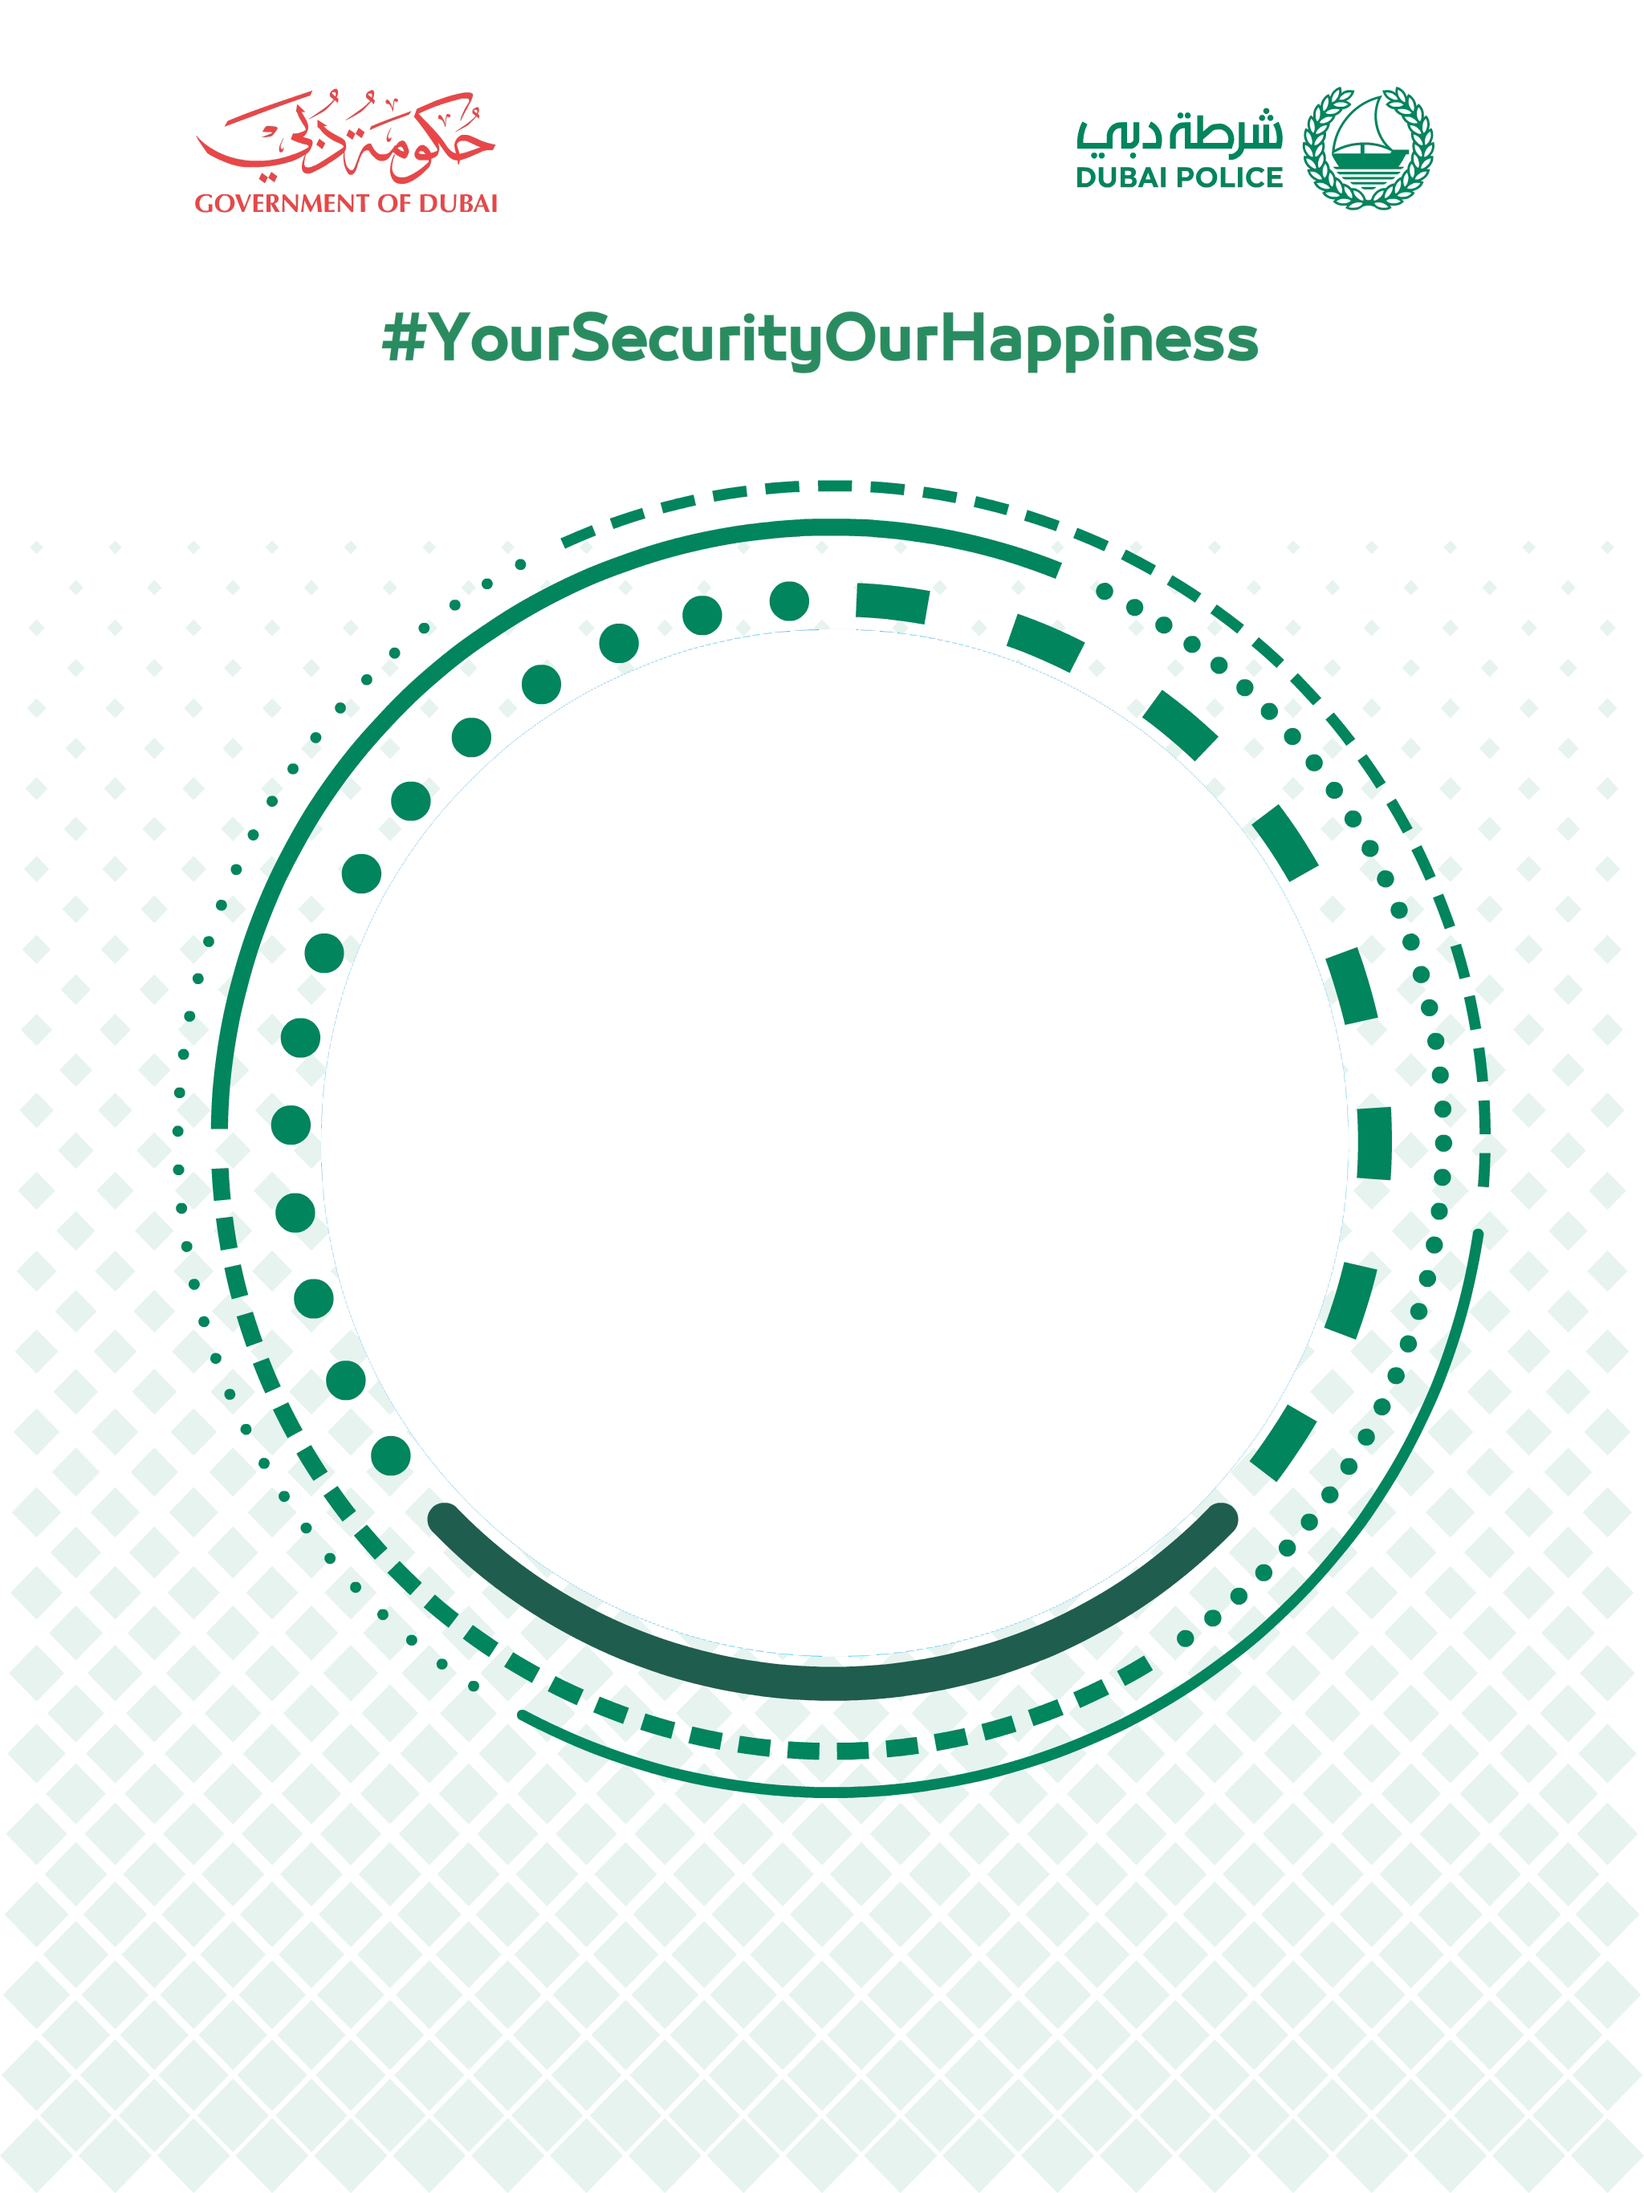
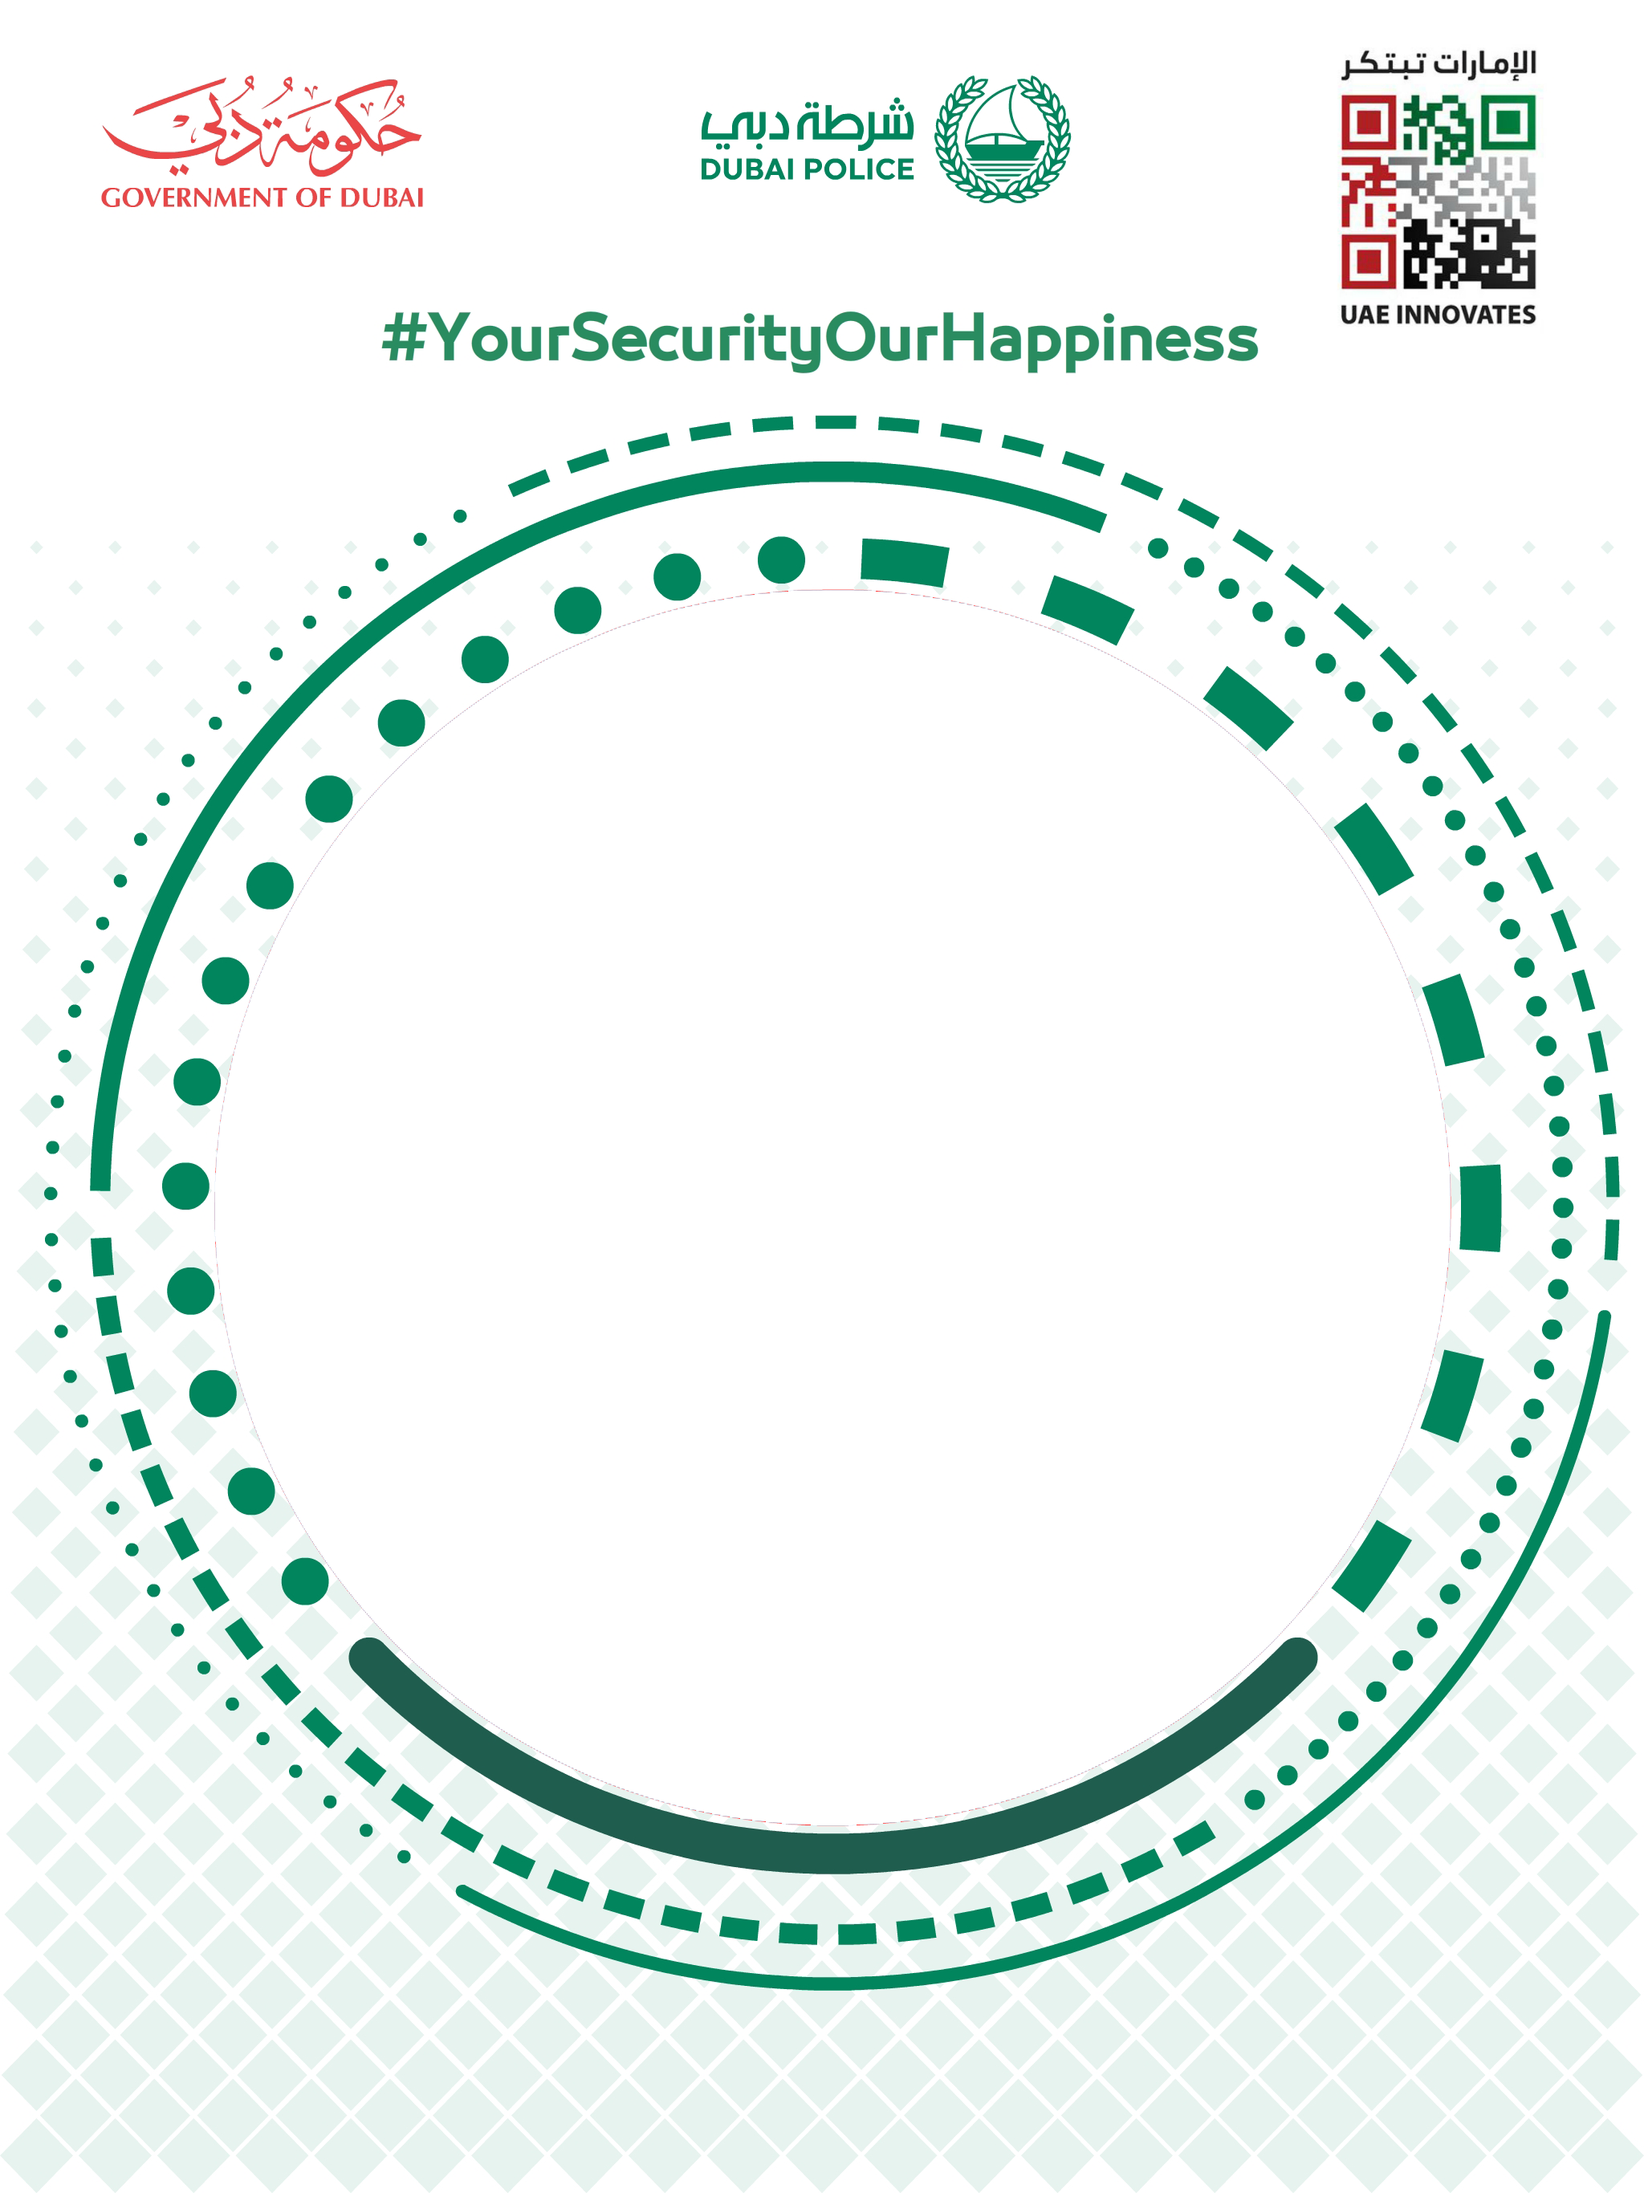
UI changes

Changed region(s): [[0.0312, 0.1867, 1.0, 0.9334], [0.4375, 0.0, 0.9375, 0.1556], [0.0625, 0.0311, 0.3125, 0.0933]]

diff --git a/src/pages/preview/preview.ts b/src/pages/preview/preview.ts
@@ -3,6 +3,7 @@ import {IonicPage, LoadingController, NavController, NavParams} from 'ionic-angu
 import {DatabaseProvider} from "../../providers/database/database";
 import {Http} from "@angular/http";
 import {ScreensaverPage} from "../screensaver/screensaver";
+import {HomePage} from "../home/home";
 
 /**
  * Generated class for the PreviewPage page.
@@ -23,6 +24,7 @@ export class PreviewPage {
   developer = {};
   users: any;
   data;
+  timer;
   baseImageString;
   postBody ={};
   date1;
@@ -38,6 +40,7 @@ export class PreviewPage {
     this.baseImageString = navParams.get('file_name_final');
     this.name = navParams.get('name');
     this.email = navParams.get('email');
+    this.timer = navParams.get('timer');
     // this.imagepath = this.file.dataDirectory + '/' + this.fileName;
     console.log("data-> " + navParams.get('imageBase'));
     // this
@@ -47,7 +50,7 @@ export class PreviewPage {
     console.log('ionViewDidLoad PreviewPage');
   }
 
-addDeveloper() {
+  addDeveloper() {
 
     console.log("Button Clicked addDeveloper()");
     //TODO Code for inserting in sqlite
@@ -63,25 +66,13 @@ addDeveloper() {
   }
 
   sendImagesToServer(){
-    // let loadingPopup = this.loadingCtrl.create({
-    //   content: "Fetching Location...",
-    //   spinner: 'circles'
-    // });
-    // loadingPopup.present();
+    let loading = this.loadingCtrl.create({
+      content: 'Sending email...',
+      spinner: 'circles'
+    });
+    loading.present();
     let body = new FormData();
     let date = new Date(new Date().toISOString());
-    // body.append('location', "jaipur");
-    // body.append('name',this.peopleDetail.name);
-    // body.append('mobile',this.peopleDetail.phone_number);
-    // body.append('email',this.peopleDetail.email);
-    // body.append('photo_base_64',this.baseImageString);
-    // body.append('clicked_on',new Date().toISOString());
-    // body.append('user_id',"nicks");
-    // body.append('password',"2702100000");
-    // console.log("Base64->> " + this.screen.substr(23));
-    // var compressed = LZString.compress(str);
-    // this.addDeveloper();
-    // let date = new Date(new Date().toISOString());
     body.append('location', "Dubai Police photo booth");
     body.append('name',this.name);
     body.append('mobile',"NA");
@@ -90,28 +81,31 @@ addDeveloper() {
     body.append('clicked_on',this.date1);
     body.append('user_id',"dubai_police");
     body.append('password',"DP#123");
-    let headers = new Headers();
-    let options = { headers: headers };
     this.http.post('http://rayqube.com/projects/dubai_police_photobooth/saveclick_rest/', body  ).subscribe(data => {
+      loading.dismiss();
       this.navCtrl.push(ScreensaverPage,{},{animate: true, animation: 'transition', duration: 300, direction: 'forward'});
-      console.log(data);
-      let data_to_use = data.json();
-      console.log(data_to_use);
+      // console.log(data);
+      // let data_to_use = data.json();
+      // console.log(data_to_use);
       // loadingPopup.dismiss();
     },error2 => {
+      loading.dismiss();
       // loadingPopup.dismiss();
       this.navCtrl.push(ScreensaverPage,{},{animate: true, animation: 'transition', duration: 300, direction: 'forward'});
-      console.log("error->" + error2);
+      // console.log("error->" + error2);
     });
   }
-  loadDeveloperData() {
-    this.databaseprovider.getAllDevelopers().then(data => {
-      this.developers = data;
-      console.log(data);
-    })
-  }
+  // loadDeveloperData() {
+  //   this.databaseprovider.getAllDevelopers().then(data => {
+  //     this.developers = data;
+  //     console.log(data);
+  //   })
+  // }
   submit(){
       this.addDeveloper();
+  }
+  reShoot(){
+    this.navCtrl.push(HomePage,{name:this.name,email:this.email,timer:this.timer});
   }
 
 }

diff --git a/src/pages/login/login.html b/src/pages/login/login.html
@@ -10,17 +10,20 @@
 
 
   <div class="background" >
-    <div style="height: 60px;">
-      <button style="background: transparent ; color:transparent;height: 160px;width: 150px"  (click)="options()" round>Light Round
-      </button>
-    </div>
+    <!--<div style="height: 60px;">-->
+      <!--<button style="background: transparent ; color:transparent;height: 160px;width: 150px"  (click)="options()" round>Light Round-->
+      <!--</button>-->
+    <!--</div>-->
     <ion-grid>
       <ion-row>
-        <ion-col style="    margin-left: 60px;text-align: left; padding-top: 40px;">
+        <ion-col style="margin-left: 60px;text-align: left; padding-top: 40px;">
           <img  src="assets/imgs/logo.png">
         </ion-col>
-        <ion-col style="margin-right: 60px; text-align: right; padding-top: 40px;">
+        <ion-col style="text-align: center; padding-top: 40px;">
           <img  src="assets/imgs/logo 02.png">
+        </ion-col>
+        <ion-col style="margin-right: 60px; text-align: right; padding-top: 14px;">
+          <img  src="assets/imgs/0200.png" style="max-width: 42%">
         </ion-col>
       </ion-row>
 
@@ -42,7 +45,7 @@
         <ion-col padding-left="5px" >
           <p class="email_text">Email Address</p>
           <div class="email_input">
-            <ion-input class="my_text_field"  name= "email" [(ngModel)]="email" style="padding-left: 5px;height: 100%;width: 100%;font-size: 23px;" placeholder="Email"></ion-input>
+            <ion-input type="email"  pattern="[A-Za-z0-9._%+-]{3,}@[a-zA-Z]{3,}([.]{1}[a-zA-Z]{2,}|[.]{1}[a-zA-Z]{2,}[.]{1}[a-zA-Z]{2,})" class="my_text_field"  name= "email" [(ngModel)]="email" style="padding-left: 5px;height: 100%;width: 100%;font-size: 23px;" placeholder="Email"></ion-input>
           </div>
         </ion-col>
 
@@ -55,6 +58,8 @@
       </div>
 
       </ion-row>
+      <button style="position:absolute;bottom: 30px; background: transparent ; color:transparent;height: 160px;width: 150px"  (click)="options()" round>Light Round
+      </button>
      </ion-grid>
 
      <!--<ion-grid>-->

diff --git a/src/pages/login/login.ts b/src/pages/login/login.ts
@@ -3,6 +3,7 @@ import { IonicPage, NavController, NavParams } from 'ionic-angular';
 import {HomePage} from "../home/home";
 import {NativeStorage} from "@ionic-native/native-storage";
 import {OptionPage} from "../option/option";
+import {el} from "@angular/platform-browser/testing/src/browser_util";
 
 /**
  * Generated class for the LoginPage page.
@@ -17,14 +18,15 @@ import {OptionPage} from "../option/option";
   templateUrl: 'login.html',
 })
 export class LoginPage {
-  name;
-  email;
+  name:string;
+  email:string;
   timer;
   constructor(public navCtrl: NavController, public navParams: NavParams,public native:NativeStorage) {
-    var time = native.getItem("time").then(data=>{
+    let time = native.getItem("time").then(data=>{
       this.timer = data;
+      console.log("Timer->" + data);
     }).catch(error=>{
-      this.timer = 5;
+      this.timer = 10;
     });
   }
 
@@ -32,14 +34,26 @@ export class LoginPage {
     console.log('ionViewDidLoad LoginPage');
   }
   nextPage(){
-    this.navCtrl.push(HomePage,{name:this.name,email:this.email,timer:this.timer},{animate: true, animation: 'transition', duration: 300, direction: 'forward'})
-    // if(this.name.length!=0 && this.email.length!=0)
-    // {
-    //
-    // }
-    // else {
-    //   alert("Name/Email address not valid");
-    // }
+
+    var re = /^(([^<>()[\]\\.,;:\s@\"]+(\.[^<>()[\]\\.,;:\s@\"]+)*)|(\".+\"))@((\[[0-9]{1,3}\.[0-9]{1,3}\.[0-9]{1,3}\.[0-9]{1,3}\])|(([a-zA-Z\-0-9]+\.)+[a-zA-Z]{2,}))$/;
+
+    if(this.name !=null && this.email != null) {
+      if (!re.test(this.email)) {
+        // Invalid Email
+        alert("Email is not Valid");
+      }
+      else {
+        this.navCtrl.push(HomePage, {name: this.name, email: this.email, timer: this.timer}, {
+          animate: true,
+          animation: 'transition',
+          duration: 300,
+          direction: 'forward'
+        });
+      }
+    }
+    else {
+      alert("Name/Email address not valid");
+    }
   }
   options(){
     this.navCtrl.push(OptionPage);

diff --git a/src/pages/preview/preview.html b/src/pages/preview/preview.html
@@ -12,9 +12,25 @@
   <!--<button class="take_flight" (click)="sendToServer()"   ion-button>Sent</button>-->
 
   <!--</div>-->
-  <div style=" display:block; width:100%; position: absolute; bottom: 30px; text-align: center;z-index: 3000">
-  <button style="background: transparent; border:none" (click)="submit()">
-    <img src="assets/imgs/mail.png" style="width: 125px;" >
-  </button>
-  </div>
+  <ion-grid style=" display:block; width:100%; position: absolute; bottom: 30px;z-index: 3000">
+
+  <ion-row style="padding: 0px 29px;">
+
+    <ion-col>
+      <div style=" display:block; width:100%; position: absolute; bottom: 30px; text-align: left;z-index: 3000">
+        <button style="background: transparent; border:none" (click)="reShoot()">
+          <img src="assets/imgs/button.png" style="width: 160px;" >
+        </button>
+      </div>
+    </ion-col>
+    <ion-col>
+      <div style=" display:block; width:100%; position: absolute; bottom: 30px; text-align: right;z-index: 3000">
+        <button style="background: transparent; border:none" (click)="submit()">
+          <img src="assets/imgs/mail.png" style="width: 160px;" >
+        </button>
+      </div>
+    </ion-col>
+  </ion-row>
+  </ion-grid>
+
 </div>

diff --git a/src/app/app.component.ts b/src/app/app.component.ts
@@ -6,14 +6,16 @@ import { ScreensaverPage } from '../pages/screensaver/screensaver';
 import { HomePage } from '../pages/home/home';
 import {LoginPage} from "../pages/login/login";
 import {PreviewPage} from "../pages/preview/preview";
+import {ScreenOrientation} from "@ionic-native/screen-orientation";
 @Component({
   templateUrl: 'app.html'
 })
 export class MyApp {
   rootPage:any = ScreensaverPage;
 
-  constructor(platform: Platform, statusBar: StatusBar, splashScreen: SplashScreen) {
+  constructor(platform: Platform, statusBar: StatusBar, splashScreen: SplashScreen,public screenOrientation:ScreenOrientation) {
     platform.ready().then(() => {
+      this.screenOrientation.lock('portrait');
       // Okay, so the platform is ready and our plugins are available.
       // Here you can do any higher level native things you might need.
       statusBar.styleDefault();

diff --git a/src/app/app.module.ts b/src/app/app.module.ts
@@ -16,6 +16,7 @@ import {NativeStorage} from "@ionic-native/native-storage";
 import {LoginPage} from "../pages/login/login";
 import {PreviewPage} from "../pages/preview/preview";
 import {OptionPage} from "../pages/option/option";
+import {ScreenOrientation} from "@ionic-native/screen-orientation";
 @NgModule({
   declarations: [
     MyApp,
@@ -46,6 +47,7 @@ import {OptionPage} from "../pages/option/option";
     SplashScreen,
     CameraPreview,
     HttpModule,
+    ScreenOrientation,
     NativeStorage,
     SQLitePorter,
     SQLite,

diff --git a/src/pages/home/home.scss b/src/pages/home/home.scss
@@ -20,9 +20,9 @@ page-home {
   }
   .timer{
     font-size: 90px;
-    color: #8F8054;
-    margin-top: 46%;
-    margin-left: -20px;
+    color: #3D835F;
+    margin-top: 22%;
+    margin-left: 7px;
   }
   .welcome {
 
@@ -39,7 +39,7 @@ page-home {
     height: 250px;
     width: 250px;
     position: absolute;
-    margin: 45% 34%;
+    margin: 60% 40%;
     padding: 40px;
   }
 }

diff --git a/src/pages/home/home.ts b/src/pages/home/home.ts
@@ -69,7 +69,7 @@ export class HomePage {
 
   initTimer() {
     //Timer for 20 secs
-    if (!this.timeInSeconds) { this.timeInSeconds = this.timer; }
+    if (!this.timeInSeconds) { this.timeInSeconds = 10; }
 
     this.time = this.timeInSeconds;
     this.runTimer = false;

diff --git a/src/pages/login/login.scss b/src/pages/login/login.scss
@@ -39,7 +39,7 @@ page-login {
     margin-right: auto;
     width: 100%;
     position: absolute;
-    bottom: 120px;
+    bottom: 130px;
     text-align: center;
 
   }
